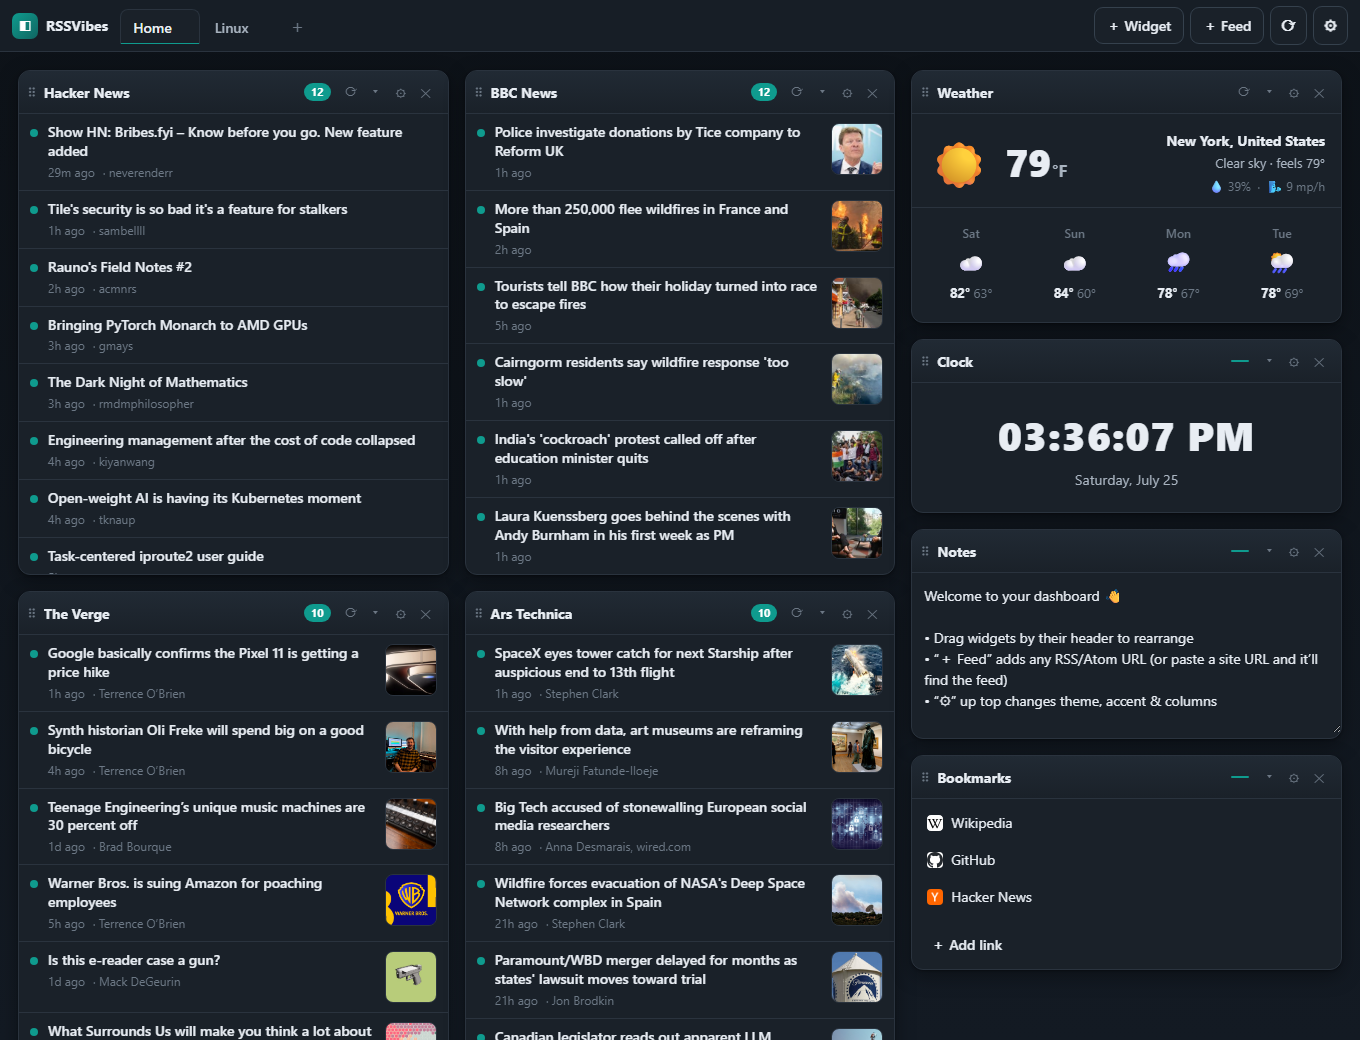
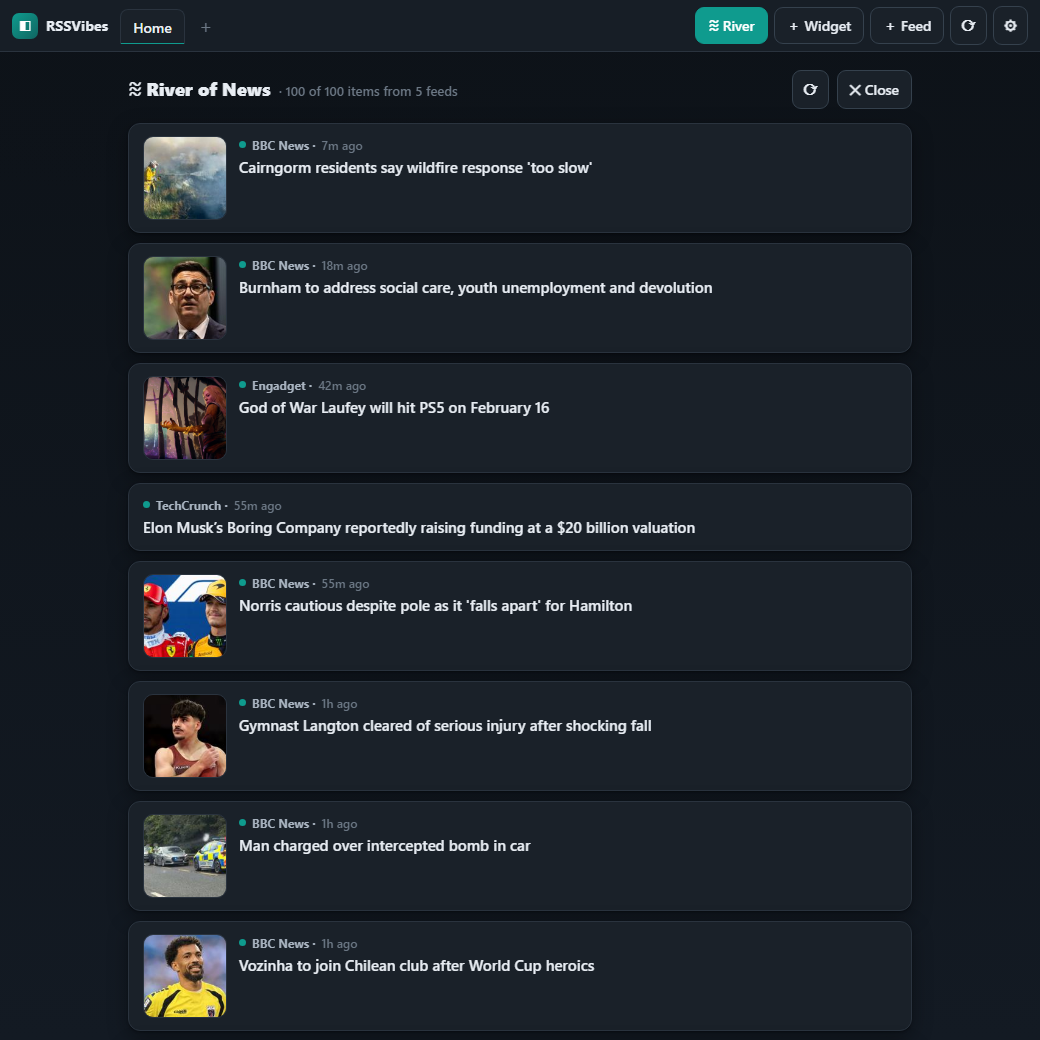
docs: refresh README screenshot to the River of News view
- Replace the hero screenshot with the ≋ River view (dark theme)
- Add a #river deep-link so RSSVibes can open straight into the river
  (openRiver/closeRiver keep the URL hash in sync via replaceState); this
  also makes the view bookmarkable

diff --git a/web/app.js b/web/app.js
@@ -800,6 +800,7 @@ function openRiver() {
   $("#board").hidden = true;
   $("#river").hidden = false;
   $("#riverBtn").classList.add("active");
+  if (location.hash.toLowerCase() !== "#river") history.replaceState(null, "", "#river");
   renderRiver();
 }
 function closeRiver() {
@@ -807,6 +808,7 @@ function closeRiver() {
   $("#river").hidden = true;
   $("#board").hidden = false;
   $("#riverBtn").classList.remove("active");
+  if (location.hash.toLowerCase() === "#river") history.replaceState(null, "", location.pathname + location.search);
 }
 
 async function renderRiver() {
@@ -912,6 +914,7 @@ async function init() {
   state.tabs.forEach(t => t.widgets.forEach(w => { if (w.type === "feed" && !w.read) w.read = {}; }));
 
   boot();
+  if (location.hash.toLowerCase() === "#river") openRiver();   // deep-link straight to the river
 }
 
 document.addEventListener("DOMContentLoaded", init);

diff --git a/README.md b/README.md
@@ -10,7 +10,7 @@ weather data you choose to load).
 ![No dependencies](https://img.shields.io/badge/dependencies-none-2fa84f)
 ![License: MIT](https://img.shields.io/badge/license-MIT-blue)
 
-![RSSVibes dashboard — RSS feeds, a weather widget, clock, notes and bookmarks in a drag-and-drop grid](docs/screenshot.png)
+![RSSVibes — the River of News view, merging every feed across all pages into one chronological stream](docs/screenshot.png)
 
 ## Run it
 
